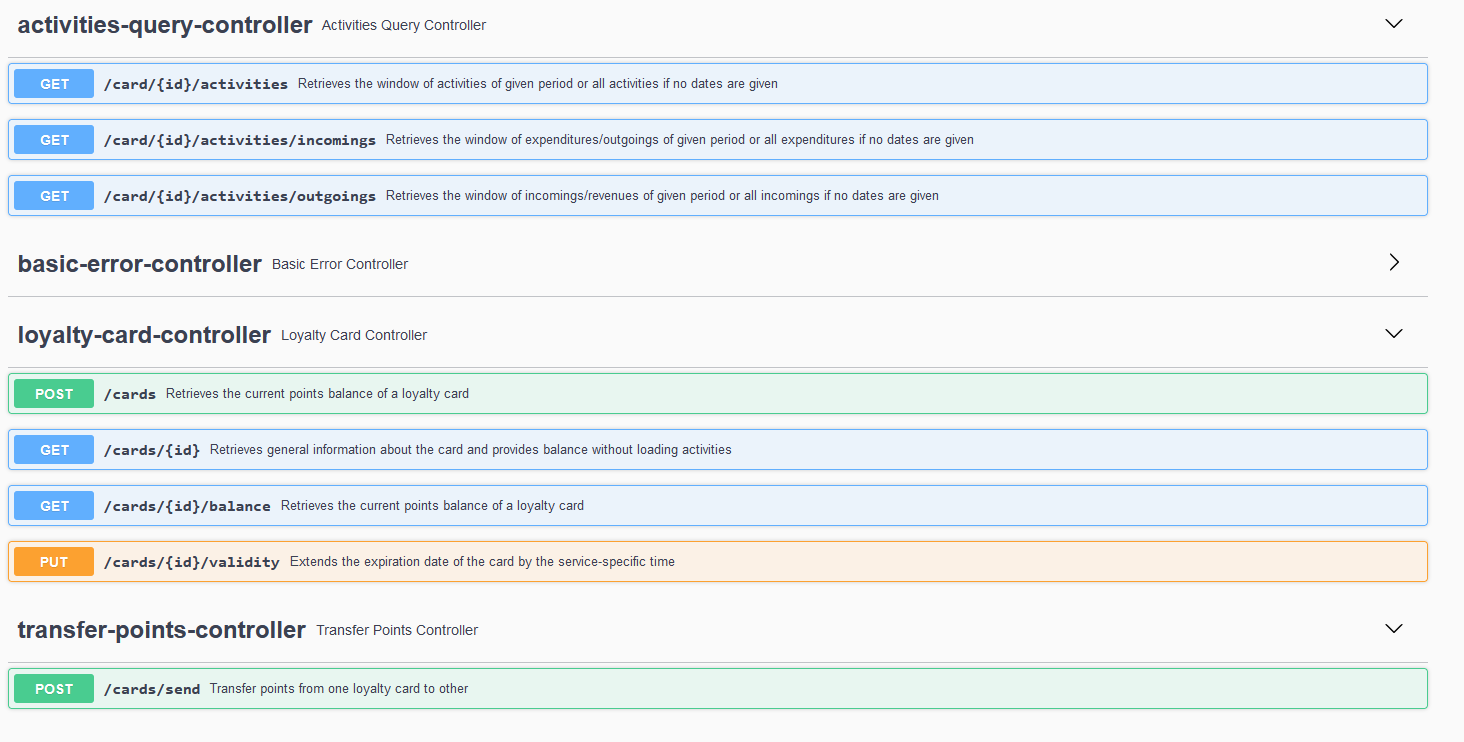
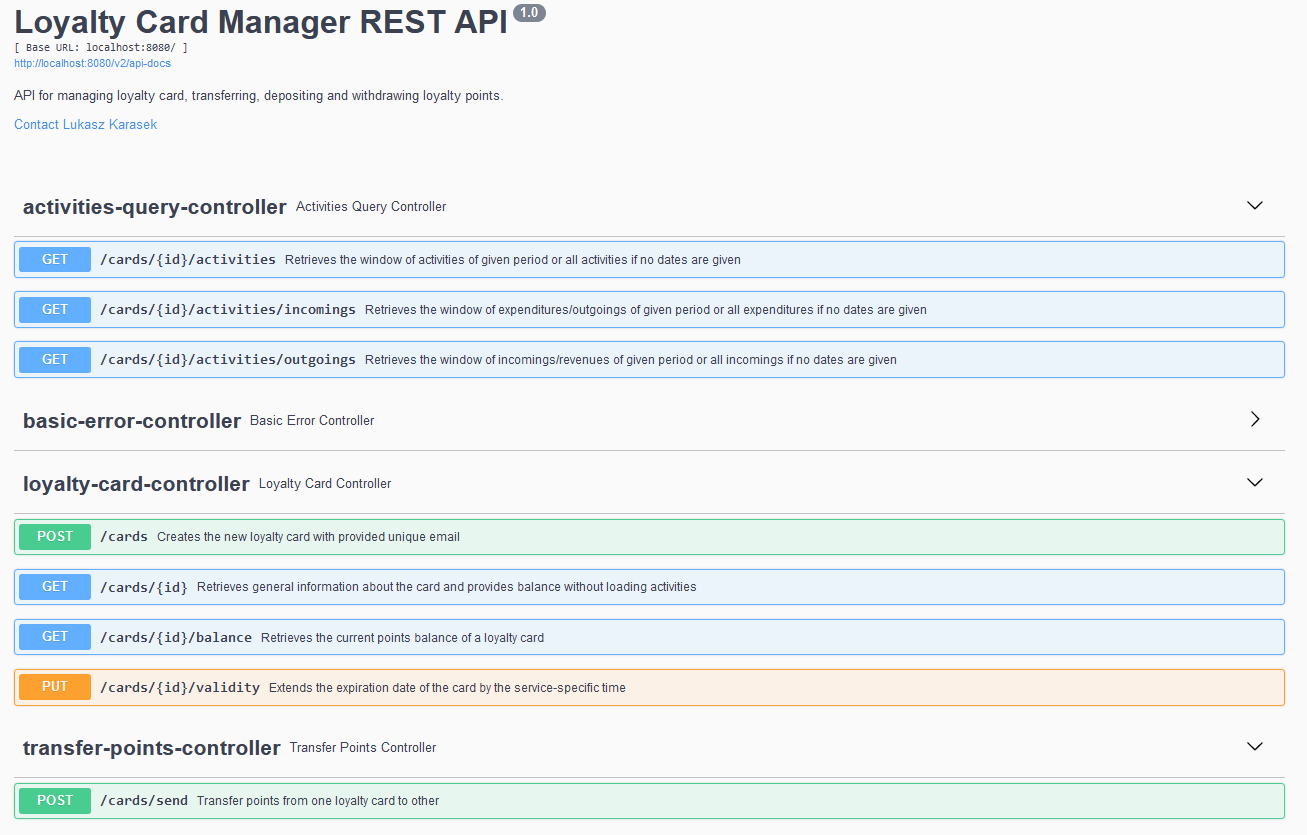
Fixing bug in api docs

diff --git a/src/main/java/pl/nqriver/cardwallet/card/infrastructure/adapters/input/rest/ActivitiesQueryController.java b/src/main/java/pl/nqriver/cardwallet/card/infrastructure/adapters/input/rest/ActivitiesQueryController.java
@@ -28,7 +28,7 @@ public class ActivitiesQueryController {
 
     @ApiOperation(value = "Retrieves the window of activities of given period or all activities if no dates are given")
     @ResponseStatus(HttpStatus.OK)
-    @GetMapping("card/{id}/activities")
+    @GetMapping("cards/{id}/activities")
     public CollectionModel<EntityModel<ActivityResponse>> getActivities(
             @PathVariable("id") Long loyaltyCardId,
             @RequestParam(required = false) Optional<LocalDateTime> since,
@@ -41,7 +41,7 @@ public class ActivitiesQueryController {
 
     @ApiOperation(value = "Retrieves the window of expenditures/outgoings of given period or all expenditures if no dates are given")
     @ResponseStatus(HttpStatus.OK)
-    @GetMapping("card/{id}/activities/incomings")
+    @GetMapping("cards/{id}/activities/incomings")
     public CollectionModel<EntityModel<ActivityResponse>> getIncomings(
             @PathVariable("id") Long loyaltyCardId,
             @RequestParam(required = false) Optional<LocalDateTime> since,
@@ -54,7 +54,7 @@ public class ActivitiesQueryController {
 
     @ApiOperation(value = "Retrieves the window of incomings/revenues of given period or all incomings if no dates are given")
     @ResponseStatus(HttpStatus.OK)
-    @GetMapping("card/{id}/activities/outgoings")
+    @GetMapping("cards/{id}/activities/outgoings")
     public CollectionModel<EntityModel<ActivityResponse>> getOutgoings(
             @PathVariable("id") Long loyaltyCardId,
             @RequestParam(required = false) Optional<LocalDateTime> since,

diff --git a/src/main/java/pl/nqriver/cardwallet/card/infrastructure/adapters/input/rest/LoyaltyCardController.java b/src/main/java/pl/nqriver/cardwallet/card/infrastructure/adapters/input/rest/LoyaltyCardController.java
@@ -35,9 +35,11 @@ public class LoyaltyCardController {
         return ResponseEntity.ok(balanceModelAssembler.toModel(facade.getBalance(loyaltyCardId)));
     }
 
-    @ApiOperation(value = "Retrieves the current points balance of a loyalty card")
+    @ApiOperation(value = "Creates the new loyalty card with provided unique email")
     @PostMapping("")
-    public ResponseEntity<EntityModel<LoyaltyCardResponse>> setUpLoyaltyCard(@RequestBody @Valid final CreateLoyaltyCardRequest request) {
+    public ResponseEntity<EntityModel<LoyaltyCardResponse>> setUpLoyaltyCard(
+            @RequestBody @Valid final CreateLoyaltyCardRequest request) {
+
         LoyaltyCardResponse loyaltyCardResponse = facade.create(request);
         return ResponseEntity
                 .created(
